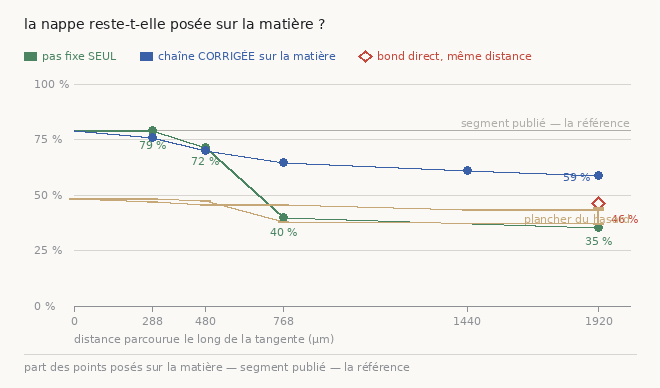
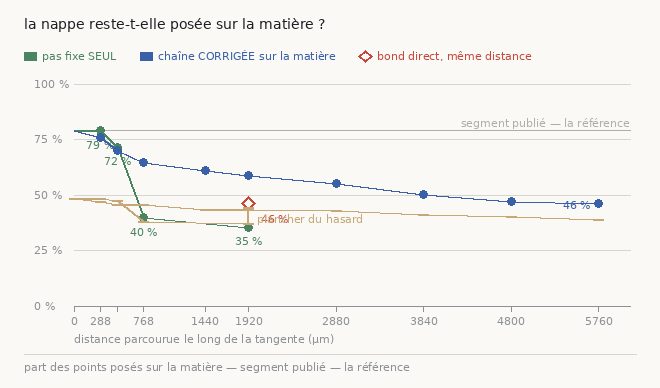
resultat(chaine): pushed to sixty links, the chain holds 5.76 mm and does not die
Twenty links was the number I picked, not a measured limit. Sixty:

  288 um    +29.0      2880 um   +12.0
  480 um    +24.4      3840 um    +9.2
  768 um    +19.0      4800 um    +6.7
  1920 um   +15.1      5760 um    +6.9

points over the chance floor, measured at each distance. The advantage weakens from +30 to +7
but the slope FLATTENS over the last millimetre (+6.7 then +6.9): a low plateau, not a fall. My
earlier extrapolation put zero at 7.5 mm and was too pessimistic -- the curve does not descend
linearly.

hors-boite is 0 everywhere to 5760 um, so the decline is real and not a download artefact.

Cost measured: 95 minutes for links 31 to 60, and it slows with distance -- 33 s at link 2, 62 at
20, 114 at 30 -- because the sheet's bounding box grows (x5.32 at sixty links), so the prediction
block to read and its distance transform grow with it. The fixed step holds the DISTANCE, not the
SHAPE.

The figure now stitches several campaign passes: a long campaign is measured in several goes and
one does not relaunch fifty minutes of re-seating to add two distances. Stitching by hand in a
pipe would be losing the computation, so the stitch lives in the module, is tested, and
DEDUPLICATES -- the source appears in every pass and must not be drawn twice. The key is the mesh
NAME and not its distance, because two different meshes can legitimately sit at the same
distance: a chain and its direct jump always do.
[…]

diff --git a/analysis/src/figure_matiere_de_la_chaine.py b/analysis/src/figure_matiere_de_la_chaine.py
@@ -23,6 +23,7 @@ from __future__ import annotations
 import argparse
 import json
 import sys
+import pathlib
 from pathlib import Path
 
 from PIL import Image, ImageDraw
@@ -63,6 +64,28 @@ def _police():
 def _pixels(im):
     f = getattr(im, "get_flattened_data", None) or im.getdata
     return set(f())
+
+
+def fusionner(chemins) -> list[dict]:
+    """Plusieurs JSON de campagne, recollés en une seule série.
+
+    ⚠⚠ Une campagne longue se mesure en plusieurs passes — on ne relance pas cinquante minutes
+    de recalage pour ajouter deux distances. Recoller les fichiers À LA MAIN dans un tube serait
+    perdre le calcul, donc le recollage est ici, testé, et il **dédoublonne** : un même maillage
+    mesuré dans deux passes (la source, typiquement) ne doit pas être tracé deux fois.
+
+    ⚠ La clé de dédoublonnage est le NOM du maillage et non sa distance : deux maillages
+    différents peuvent légitimement être à la même distance — une chaîne et son bond direct le
+    sont toujours.
+    """
+    vus, out = set(), []
+    for c in chemins:
+        for r in json.loads(pathlib.Path(c).read_text(encoding="utf-8")):
+            if r["maillage"] in vus:
+                continue
+            vus.add(r["maillage"])
+            out.append(r)
+    return sorted(out, key=lambda r: float(r["parcouru_um"]))
 
 
 def part_posee(r: dict) -> float:
@@ -465,6 +488,24 @@ def _verifier() -> int:
         pxc = _pixels(Image.open(Path(td) / "deux.png").convert("RGB"))
         v("... dans sa propre couleur", CORRIGEE in pxc)
         v("sans elle, aucune trace corrigée", r["corrigee_traces"] == 0)
+        # ⚠⚠ Le RECOLLAGE de plusieurs passes. Une campagne longue se mesure en plusieurs
+        # fois, et la source apparaît dans chacune : la tracer deux fois mettrait deux points
+        # à l'abscisse zéro.
+        j1, j2 = Path(td) / "p1.json", Path(td) / "p2.json"
+        j1.write_text(json.dumps(faux[:2]), encoding="utf-8")
+        j2.write_text(json.dumps([faux[0], faux[3]]), encoding="utf-8")
+        f2 = fusionner([j1, j2])
+        v("deux passes se recollent", len(f2) == 3, str(len(f2)))
+        v("... la source n'est pas doublée",
+          sum(1 for x in f2 if x["maillage"] == "morceau_00") == 1)
+        v("... et le résultat est trié par distance",
+          [x["parcouru_um"] for x in f2] == sorted(x["parcouru_um"] for x in f2))
+        # ⚠ Deux maillages DIFFÉRENTS à la même distance sont légitimes — une chaîne et son
+        # bond direct le sont toujours — donc la clé est le nom, pas l'abscisse.
+        j3 = Path(td) / "p3.json"
+        j3.write_text(json.dumps([faux[1], faux[2]]), encoding="utf-8")
+        v("deux maillages à la même distance sont gardés tous les deux",
+          len(fusionner([j3])) == 2)
         # ⚠ Le nom de la série porte un NOMBRE : la même figure sert un pas de 95 et un de 96.
         rn = dessiner(faux, Path(td) / "nom.png", nom_chaine="chaîne de 96 µm, pas FIXE")
         v("le nom de la chaîne est remplaçable",
@@ -492,14 +533,15 @@ def _verifier() -> int:
 
 def main() -> int:
     p = argparse.ArgumentParser(description=__doc__.splitlines()[0])
-    p.add_argument("campagne", nargs="?", type=Path,
-                   help="le JSON écrit par tools/recalage_de_la_chaine.sh")
+    p.add_argument("campagne", nargs="*",
+                   help="le ou les JSON écrits par tools/recalage_de_la_chaine.sh")
     p.add_argument("--sortie", type=Path,
                    default=Path("docs/images/44_matiere_de_la_chaine.png"))
     p.add_argument("--nom-chaine", help="le nom de la série — il porte un nombre, donc il "
                                         "doit être celui de la chaîne tracée")
-    p.add_argument("--corrigee", type=Path,
-                   help="une seconde campagne : la chaîne qui repose sur la matière")
+    p.add_argument("--corrigee", nargs="*", default=[],
+                   help="une seconde campagne : la chaîne qui repose sur la matière — "
+                        "plusieurs JSON acceptés, recollés et dédoublonnés")
     p.add_argument("--emballement-um", type=float,
                    help="où le pas s'emballe, pour le tracer en repère")
     p.add_argument("--anglais", action="store_true")
@@ -509,8 +551,8 @@ def main() -> int:
         return _verifier()
     if not a.campagne:
         p.error("le JSON de campagne est requis")
-    rangs = json.loads(a.campagne.read_text(encoding="utf-8"))
-    corr = json.loads(a.corrigee.read_text(encoding="utf-8")) if a.corrigee else None
+    rangs = fusionner(a.campagne)
+    corr = fusionner(a.corrigee) if a.corrigee else None
     r = dessiner(rangs, a.sortie, a.anglais, a.emballement_um, corr, a.nom_chaine)
     print(f"écrit : {a.sortie}  ({r['maillons']} maillons, {r['bonds']} témoin(s), "
           f"référence {r['repere'] * 100:.0f} %)")

diff --git a/docs/44_ou_la_chaine_se_trouve.md b/docs/44_ou_la_chaine_se_trouve.md
@@ -804,10 +804,45 @@ recalage offre :
 > recalé. Et la colonne « demande » prouve que les maillages sont bien différents — 1,6 et
 > 3,4 voxels avant, 0,06 après. **La comparaison avec la chaîne sans recalage est juste.**
 
+##### ⭐⭐⭐ Et poussée à SOIXANTE maillons, elle tient 5,76 mm
+
+Vingt maillons, c'était le nombre que j'avais choisi, pas une limite mesurée. Soixante :
+
+| parcouru | posé | plancher | **avantage** |
+|---:|---:|---:|---:|
+| 288 µm | 75,9 % | 46,9 % | ⭐ **+29,0** |
+| 480 µm | 70,1 % | 45,7 % | ⭐ **+24,4** |
+| 768 µm | 64,6 % | 45,6 % | ⭐ **+19,0** |
+| 1 920 µm | 58,6 % | 43,5 % | ⭐ **+15,1** |
+| 2 880 µm | 55,1 % | 43,1 % | ⭐ **+12,0** |
+| 3 840 µm | 50,2 % | 41,0 % | ⭐ **+9,2** |
+| 4 800 µm | 47,0 % | 40,3 % | ⭐ **+6,7** |
+| **5 760 µm** | 46,0 % | 39,1 % | ⭐ **+6,9** |
+
+> ⭐⭐⭐ **Elle ne meurt pas.** L'avantage s'affaiblit — de +30 au départ à **+7** à 5,8 mm —
+> mais la pente **s'aplatit** sur le dernier millimètre (+6,7 puis +6,9). Ce n'est pas une
+> chute, c'est un **plateau bas**.
+>
+> ⚠ Mon extrapolation précédente annonçait un zéro vers 7,5 mm. Elle était **trop pessimiste** :
+> la courbe ne descend pas linéairement.
+
+⚠ **Coût mesuré** : 95 minutes pour les maillons 31 à 60, et ça ralentit avec la distance — 33 s
+au maillon 2, 62 s au 20, 114 s au 30 — parce que la boîte englobante de la nappe grossit
+(**×5,32** à 60 maillons), donc le bloc de prédiction à lire et sa transformée de distance avec
+elle. Le pas fixe tient la **distance**, il ne tient pas la **forme**.
+
+⚠ **`hors boîte` vaut 0 partout** jusqu'à 5 760 µm : la boîte de prédiction couvrait bien tout
+le trajet, donc la décroissance est réelle et pas un artefact de téléchargement.
+
 ⚠ **Ce que ça ne dit toujours PAS** : que la chaîne suit la **bonne** feuille. Elle est sur *du*
-papyrus, franchement au-dessus du hasard, sur près de deux millimètres. Savoir si c'est la
-feuille qui prolonge le texte demande de l'**encre**, et c'est la tâche ouverte de
+papyrus, franchement au-dessus du hasard, sur **5,76 mm**. Savoir si c'est la feuille qui
+prolonge le texte demande de l'**encre**, et c'est la tâche ouverte de
 [`43`](43_la_chaine_des_spires.md).
+
+⚠⚠ **Et une réserve de portée qu'il faut garder en tête** : tout ceci part d'un **morceau de
+segment publié**, pas d'une de nos traces. C'est ce qui a rendu la mesure propre — on sait que
+le point de départ est sur une feuille — mais c'est aussi un point de départ privilégié. Refaire
+la chaîne depuis une graine à nous reste à faire.
 
 #### ⭐⭐⭐ Et le remède n'est PAS spéculatif : il est mesuré ailleurs, à 2,4 mm
 
@@ -1725,8 +1760,15 @@ ZARR=$PWD/data/pred_ps256_niv2 NIVEAU=2 PLANCHER=300 JSON=$PWD/docs/recalage_deu
 ZARR=$PWD/data/pred_ps256_niv2 NIVEAU=2 PLANCHER=300 \
   JSON=$PWD/docs/recalage_avant_recalage.json tools/recalage_de_la_chaine.sh \
   data/chaine_deux_fixes/projete_{8,20}
+# … poussée à 60 maillons, mesurée en deux passes que la figure RECOLLE
+SOURCE=$PWD/data/temoin_rendu/morceaux/morceau_00 PAS_VOX=40 MAILLONS=60 PROFILS=0 RECALER=1 \
+  ZARR=$PWD/data/pred_ps256_niv2 NIVEAU=2 DEST=$PWD/data/chaine_deux_fixes \
+  JSON=$PWD/docs/chaine_deux_fixes.json tools/chainer_tangentiel.sh
+ZARR=$PWD/data/pred_ps256_niv2 NIVEAU=2 PLANCHER=300 JSON=$PWD/docs/recalage_60_maillons.json \
+  tools/recalage_de_la_chaine.sh data/chaine_deux_fixes/maillon_{30,40,50,60}
 uv run --project . python analysis/src/figure_matiere_de_la_chaine.py \
-  docs/recalage_avec_plancher.json --corrigee docs/recalage_deux_fixes.json \
+  docs/recalage_avec_plancher.json \
+  --corrigee docs/recalage_deux_fixes.json docs/recalage_60_maillons.json \
   --nom-chaine "pas fixe SEUL" --sortie docs/images/44_deux_corrections.png
 
 # LE PLANCHER DU HASARD — sans lui, aucun « % posé » n'est interprétable

diff --git a/docs/55_les_murs_et_leurs_causes.md b/docs/55_les_murs_et_leurs_causes.md
@@ -62,7 +62,7 @@ viennent du même registre et sont vérifiés contre ce tableau.*
 | cause candidate | | ce qui a été mesuré | où |
 |---|---|---|---|
 | une extension UNIQUE, puis rognage | ✅ | 4,28 → 12,97 cm² à α = +0,000, ramenée à 6,02 cm² propres, soit +41 % de matière validée | [`44`](44_ou_la_chaine_se_trouve.md) |
-| la chaîne TANGENTIELLE, qui suivrait une feuille autour du tour | ✅ | elle marche, à DEUX conditions qui se composent : un pas FIXE en voxels (la géométrie) et un RECALAGE sur la matière à chaque maillon (la donnée). 20 maillons de 96 µm : pas tenu à 96,0 exactement, boîte ×1,92, et +15,1 points au-dessus du plancher du hasard à 1 920 µm — là où la chaîne sans recalage est morte dès 768 (+1,5). Quatre fois plus loin. ⚠ Ne dit pas que c'est la BONNE feuille : ça demande de l'encre | [`44`](44_ou_la_chaine_se_trouve.md) |
+| la chaîne TANGENTIELLE, qui suivrait une feuille autour du tour | ✅ | elle marche, à DEUX conditions qui se composent : un pas FIXE en voxels (la géométrie) et un RECALAGE sur la matière à chaque maillon (la donnée). 60 maillons de 96 µm : pas tenu à 96,0 exactement, et +6,9 points au-dessus du plancher du hasard à 5 760 µm — là où la chaîne sans recalage est morte dès 768 (+1,5). La pente s'aplatit sur le dernier millimètre : plateau bas, pas chute. ⚠ Ne dit pas que c'est la BONNE feuille (il faut de l'encre), et part d'un segment PUBLIÉ et non d'une de nos traces | [`44`](44_ou_la_chaine_se_trouve.md) |
 | enchaîner la projection à PETIT pas (95 µm/maillon) | ✅ | un LEVIER qui marche À COURTE DISTANCE, confirmé sur trois grandeurs indépendantes. À 478 µm, là où un seul bond quitte sa feuille (18,4 % de pic au bord), la chaîne y est encore (2,0 %) avec +31 % d'amplitude ; et lue contre le PLANCHER DU HASARD elle est à +30,5 points à 288 µm, +24,1 à 480, puis +1,5 à 768 — soit morte entre les deux. ⚠⚠ Le « croisement » que j'avais publié à 1 920 µm n'existe pas : chaîne ET bond y sont au niveau du hasard (−1,7 et +1,6) | [`44`](44_ou_la_chaine_se_trouve.md) |
 | augmenter le budget d'un seul coup | ❌ | budget 200 : 28,6 cm² mais 25 036 auto-intersections et α = +1,313, la surface se replie sur elle-même | [`44`](44_ou_la_chaine_se_trouve.md) |
 | enchaîner rogner puis étendre | ❌ | le cycle converge vers un point fixe autour de 6 cm² : chaque tour regagne ce qu'il vient de perdre | [`44`](44_ou_la_chaine_se_trouve.md) |

diff --git a/HANDOFF.md b/HANDOFF.md
@@ -28,9 +28,20 @@ Le mur « l'extension tangentielle est un point fixe » a **une** cause qui marc
 |---:|---:|---:|
 | 480 µm | +24,1 | +24,4 |
 | **768 µm** | ⚠⚠ **+1,5** (mort) | ⭐⭐ **+19,0** |
-| **1 920 µm** | ⚠⚠ **−1,7** (mort) | ⭐⭐⭐ **+15,1** |
+| 1 920 µm | ⚠⚠ **−1,7** (mort) | ⭐⭐ **+15,1** |
+| 3 840 µm | — | ⭐⭐ **+9,2** |
+| **5 760 µm** | — | ⭐⭐⭐ **+6,9** |
 
-**Quatre fois plus loin.** Le segment publié, pour référence, est à +30,6.
+**Poussée à SOIXANTE maillons, elle tient 5,76 mm** et ne meurt pas : l'avantage s'affaiblit de
++30 à +7, mais la pente **s'aplatit** sur le dernier millimètre (+6,7 puis +6,9). Plateau bas,
+pas chute. Le segment publié, pour référence, est à +30,6.
+
+⚠ **Coût** : 95 min pour les maillons 31→60, et ça ralentit (33 s au maillon 2, 114 s au 30)
+parce que la boîte englobante grossit — **×5,32** à 60 maillons. Le pas fixe tient la
+**distance**, pas la **forme**.
+
+⚠⚠ **Réserve de portée** : tout part d'un **morceau de segment publié**, pas d'une de nos
+traces. C'est ce qui rend la mesure propre, et c'est aussi un point de départ privilégié.
 
 ### ⚠⚠ Ce qui rend ces nombres lisibles, et sans quoi ils ne le sont pas
 
